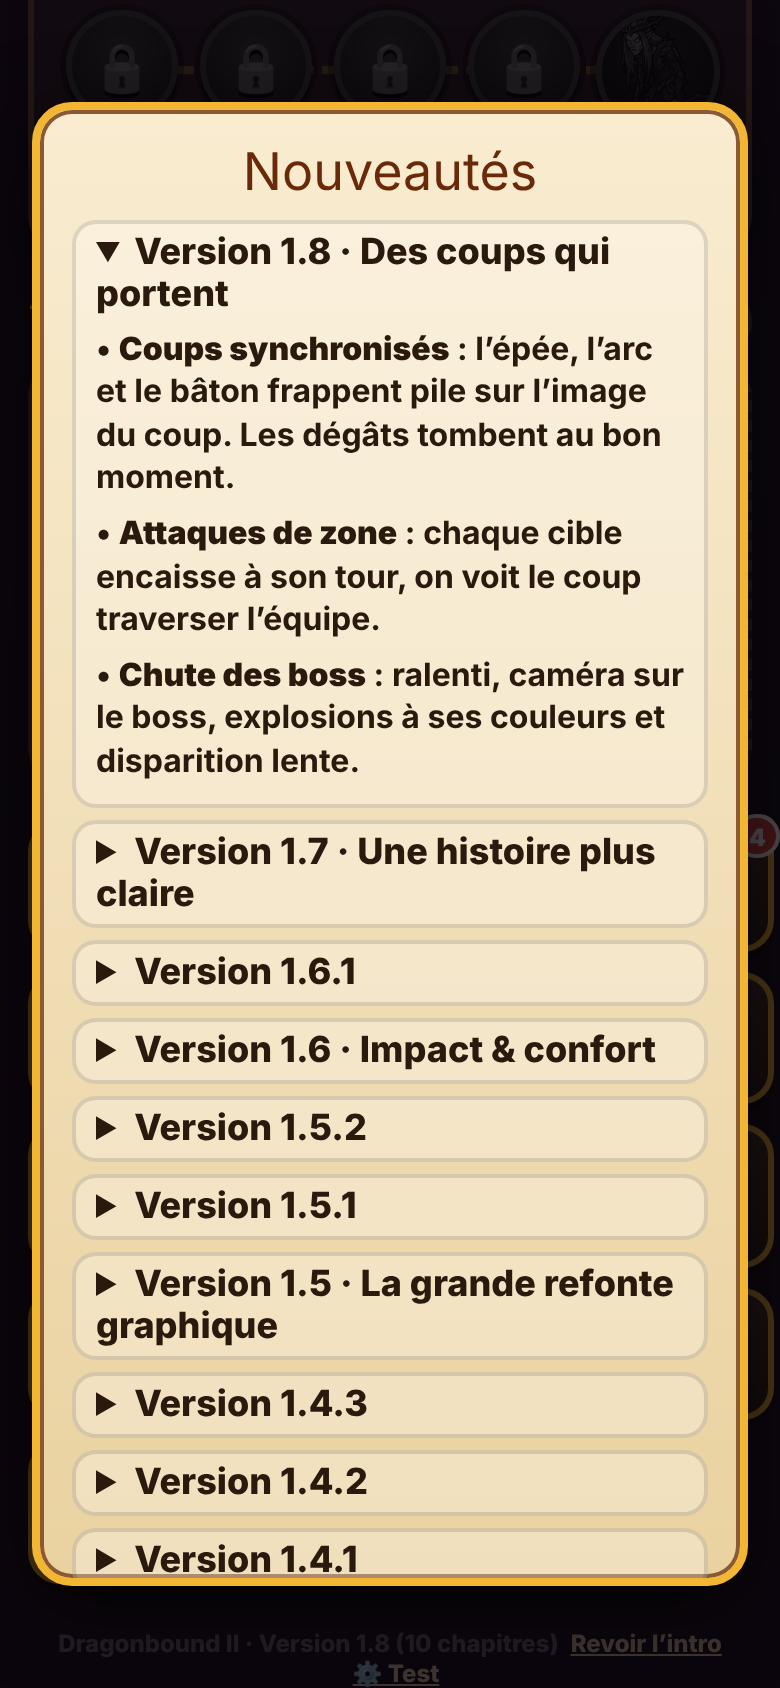
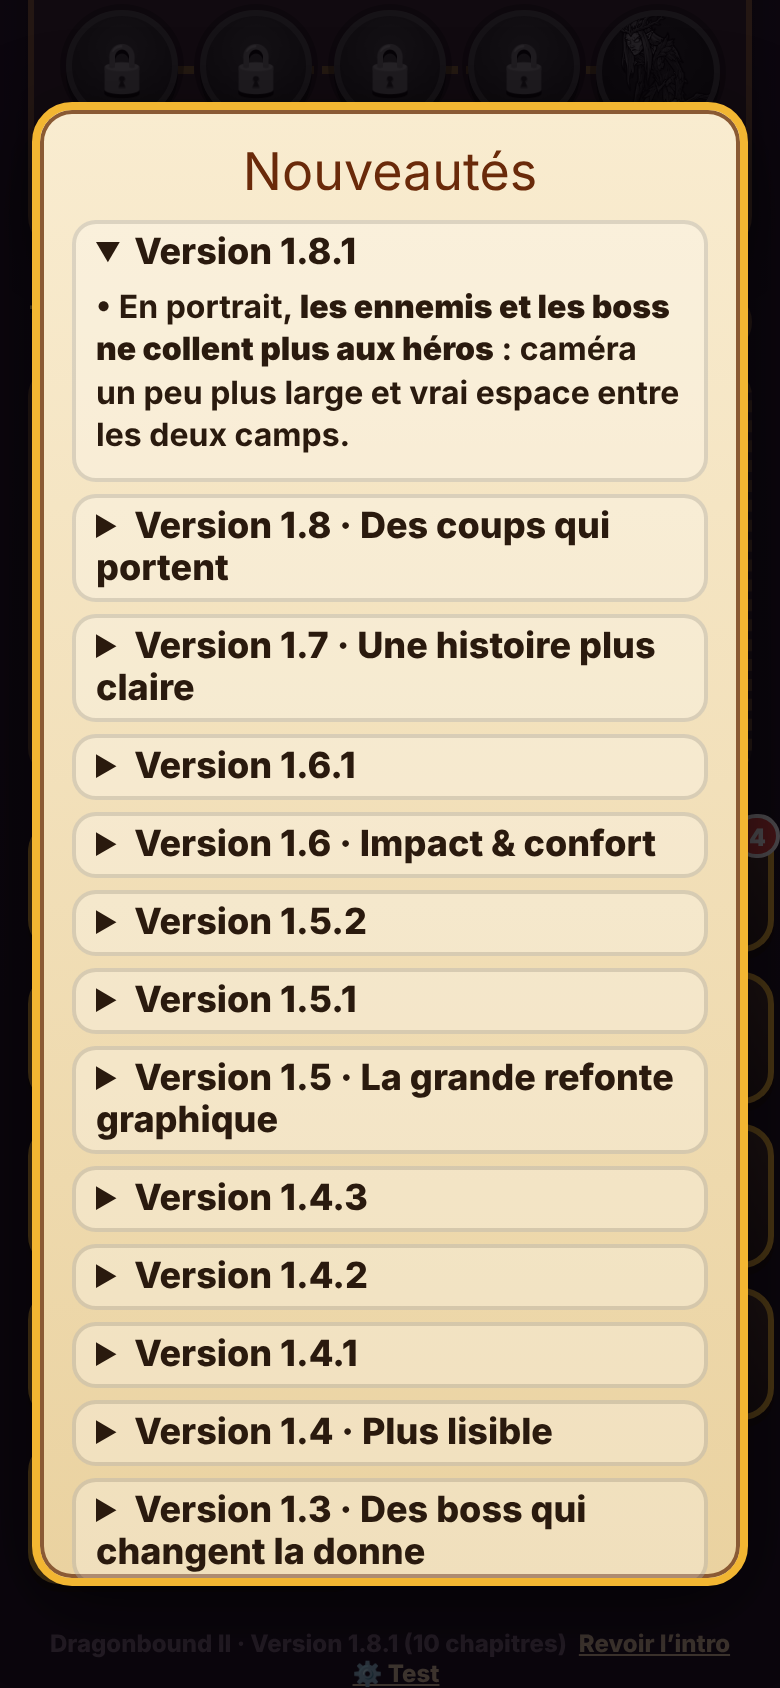
Dragonbound II 1.8.1 : en portrait, ennemis et boss ne collent plus aux héros (caméra plus large, espace entre les camps)
Claude-Session: https://claude.ai/code/session_01G2LeSq3BZwgWtQEzaTDVtd

Changed region(s): [[0.0923, 0.1232, 0.9231, 0.955], [0.7385, 0.955, 0.8615, 0.9858]]

diff --git a/prototype/dragonbound2/index.html b/prototype/dragonbound2/index.html
@@ -337,7 +337,7 @@ table.cmp .up { color: #2f7a3a; font-weight: 900; } table.cmp .down { color: #b5
 <script>
 (() => {
 'use strict';
-const VERSION = 'Dragonbound II · Version 1.8 (10 chapitres)';
+const VERSION = 'Dragonbound II · Version 1.8.1 (10 chapitres)';
 const DEV = true; // 1.3: set to false for the commercial build (removes the test menu)
 const IP = '../dragonbound/img/', AP = '../dragonbound/audio/', FP = 'img/';
 const Q = new URLSearchParams(location.search), SIM = Q.has('sim');
@@ -913,7 +913,7 @@ const HSLOT = [[[.3, .6]], [[.32, .42], [.19, .88]], [[.37, .52], [.13, .2], [.2
 const FSLOT = [[[.7, .6]], [[.68, .42], [.83, .88]], [[.66, .55], [.85, .26], [.84, .93]], [[.62, .44], [.82, .22], [.66, .95], [.89, .66]], [[.6, .5], [.76, .2], [.62, .96], [.9, .4], [.88, .86]]];
 const BSLOT = [[.66, .66], [.9, .2], [.92, .95]];
 // 1.6: bigger characters; landscape stages are short and wide, so they get a stronger zoom and units are pulled toward the centre
-const ZOOM_P = .94, ZOOM_L = 1.2, XPULL_L = .84; let ZOOM = ZOOM_P, XPULL = 1, WIDE = false;
+const ZOOM_P = .88, ZOOM_L = 1.2, XPULL_L = .84; let ZOOM = ZOOM_P, XPULL = 1, WIDE = false;
 const persp = v => .8 + .3 * v;
 function mkHero(id, i, n) { const H = HEROES[id], st = heroStats(id);
   return { side: 'h', id, name: H.name, sprite: H.sprite, H, hpMax: st.hp, hp: st.hp, mpMax: st.mp, mp: st.mp, atk: st.atk, mag: st.mag, def: st.def, crit: st.crit,
@@ -931,7 +931,9 @@ function soloScale(f) { const k = B && SOLO[B.party.length]; if (!k) return f; f
 const SOLO = { 1: { h: .66, a: .6, bh: .55, ba: .58 }, 2: { h: .84, a: .9, bh: .8, ba: .9 } };
 const alive = u => u.hp > 0;
 const livingH = () => B.party.filter(alive), livingF = () => B.foes.filter(alive);
-function px(u) { const v = u.slot ? u.slot[1] : .5; return { x: (.5 + ((u.slot ? u.slot[0] : .2) - .5) * XPULL) * VW + u.ox, y: GY + (VH - GY) * (.3 + .64 * v) + u.oy, h: VH * u.hsz * persp(v) * ZOOM, v }; }
+// 1.8.1: in portrait, heroes and foes were touching: open a gap in the middle (edges unchanged)
+const gapX = (u, x) => WIDE ? x : u.side === 'h' ? x - .045 * Math.max(0, Math.min(1, (x - .13) / .24)) : u.side === 'f' ? x + .055 * Math.max(0, Math.min(1, 1 - (x - .6) / .3)) : x;
+function px(u) { const v = u.slot ? u.slot[1] : .5; return { x: (.5 + (gapX(u, u.slot ? u.slot[0] : .2) - .5) * XPULL) * VW + u.ox, y: GY + (VH - GY) * (.3 + .64 * v) + u.oy, h: VH * u.hsz * persp(v) * ZOOM, v }; }
 function setPose(u, p, ms) { u.pose = p; u.poseDur = ms; u.poseUntil = now() + (FAST ? 0 : ms); }
 // 1.8: animated heroes hit on their swing frame (frame 3 of 4): the pose lasts 2×lead, so after `lead` ms the swing/release frame is on screen
 const isAnim = u => !!ANIM[u.sprite];
@@ -2129,6 +2131,7 @@ renderHome();
 function afterIntro() { if (!S.seen.in) { S.seen.ver = VER; return story('in', helpSheet); } if (S.seen.ver !== VER) { S.seen.ver = VER; save(); return newsSheet(() => { if (loginReady()) loginSheet(); }); } if (loginReady()) loginSheet(); }
 // 1.1: every version's notes live here; the newest is shown once per version, the whole list from the Nouveautés button
 const CHANGELOG = [
+  { v: '1.8.1', t: 'Version 1.8.1', d: `<p>• En portrait, <b>les ennemis et les boss ne collent plus aux héros</b> : caméra un peu plus large et vrai espace entre les deux camps.</p>` },
   { v: '1.8', t: 'Version 1.8 · Des coups qui portent', d: `<p>• <b>Coups synchronisés</b> : l’épée, l’arc et le bâton frappent pile sur l’image du coup. Les dégâts tombent au bon moment.</p><p>• <b>Attaques de zone</b> : chaque cible encaisse à son tour, on voit le coup traverser l’équipe.</p><p>• <b>Chute des boss</b> : ralenti, caméra sur le boss, explosions à ses couleurs et disparition lente.</p>` },
   { v: '1.7', t: 'Version 1.7 · Une histoire plus claire', d: `<p>• <b>Nouvelle histoire</b> : tous les dialogues des 10 chapitres ont été réécrits. Plus courts, plus clairs, avec un vrai mystère autour d’Ardaël, des sceaux et de Vorthax.</p><p>• <b>Écran d’objet simplifié</b> : un verdict clair (meilleur ou moins bien), seulement les stats qui changent, et le bon bouton en premier. Le détail complet reste accessible.</p><p>• Le bouton <b>Histoire</b> permet de relire les scènes du chapitre en cours.</p>` },
   { v: '1.6.1', t: 'Version 1.6.1', d: `<p>• Les personnages restent <b>immobiles</b> quand ils n’agissent pas (plus d’animation d’attente ni de respiration).</p>` },

diff --git a/prototype/dragonbound-tests/db211.js b/prototype/dragonbound-tests/db211.js
@@ -8,7 +8,7 @@ const H = ['aldric', 'selena', 'orin', 'lyra', 'nyx'];
 const inv = [{ id: 1, slot: 'w', r: 1, t: 3, st: { atk: 6 }, hero: 'aldric', img: 'wSword', name: 'Épée A' }, { id: 2, slot: 'w', r: 3, t: 8, st: { atk: 20 }, hero: 'aldric', img: 'wSword', name: 'Épée B', pw: 'vampire' },
   { id: 3, slot: 'a', r: 2, t: 5, st: { hp: 40, def: 4 }, img: 'a0armure', name: 'Armure C' }, { id: 4, slot: 'w', r: 2, t: 5, st: { atk: 12 }, hero: 'nyx', img: 'wDaggers', name: 'Dagues N' }];
 const base = o => Object.assign({ v: 2, gold: 100, items: { pot: 3, eth: 1, fea: 1, eli: 0 }, h: Object.fromEntries(H.map(k => [k, { lvl: 6, xp: 0, w: 0, a: 0, eq: k === 'aldric' ? { w: 1 } : {} }])),
-  team: ['aldric', 'selena'], own: { aldric: 1, selena: 1 }, stars: Array(50).fill(0), seen: { in: 1, vid: 1, vid2: 1, n09: 1, n10: 1, ver: '1.8' }, mute: true, ch: 1, inv, nid: 10, spd: 3 }, o);
+  team: ['aldric', 'selena'], own: { aldric: 1, selena: 1 }, stars: Array(50).fill(0), seen: { in: 1, vid: 1, vid2: 1, n09: 1, n10: 1, ver: '1.8.1' }, mute: true, ch: 1, inv, nid: 10, spd: 3 }, o);
 srv.listen(0, async () => {
   const url = `http://127.0.0.1:${srv.address().port}/dragonbound2/index.html`, b = await chromium.launch(), errs = [];
   for (const [w, h, tag] of [[390, 844, 'portrait'], [1180, 820, 'paysage']]) {
@@ -50,7 +50,7 @@ srv.listen(0, async () => {
     // news once per version: old 1.0.2 save (n10, no ver)
     await load(base({ seen: { in: 1, vid: 1, vid2: 1, n09: 1, n10: 1 } })); const h3 = await pg.textContent('#modal:not([hidden]) h3').catch(() => ''); await closeAll();
     await pg.reload(); await pg.click('#title'); await pg.waitForTimeout(500); const again = await pg.$('#modal:not([hidden]) h3') ? await pg.textContent('#modal:not([hidden]) h3') : '';
-    s = await S(); ok(`[${tag}] Nouveautés 1.1 montrées une seule fois (sauvegarde 1.0.2)`, h3.startsWith('Version 1.8') && !again.includes('Version 1.8') && s.seen.ver === '1.8' && s.inv.length === 4, `1er : ${h3} · 2e : ${again || 'rien'}`);
+    s = await S(); ok(`[${tag}] Nouveautés 1.1 montrées une seule fois (sauvegarde 1.0.2)`, h3.startsWith('Version 1.8.1') && !again.includes('Version 1.8.1') && s.seen.ver === '1.8.1' && s.inv.length === 4, `1er : ${h3} · 2e : ${again || 'rien'}`);
     await ctx.close();
   }
   ok('Aucune erreur JavaScript', !errs.length, errs.join(' | '));

diff --git a/prototype/dragonbound-tests/db151.js b/prototype/dragonbound-tests/db151.js
@@ -5,7 +5,7 @@ const srv = http.createServer((q, r) => { const p = path.join(ROOT, decodeURICom
 const H = ['aldric', 'selena', 'orin', 'lyra', 'nyx'], res = [], ok = (n, c, x = '') => res.push(`${c ? '✅' : '❌'} ${n}${x ? ' — ' + x : ''}`);
 const it = (id, slot, r, st, hero) => ({ id, slot, r, t: 5, st, hero, name: 'x' });
 const inv = [it(1, 'w', 0, { atk: 5 }, 'aldric'), it(2, 'w', 4, { atk: 50 }, 'aldric'), it(3, 'a', 0, { hp: 10, def: 1 }), it(4, 'a', 1, { hp: 15, def: 1 }), it(5, 'a', 3, { hp: 80, def: 8 }), it(6, 'j', 2, { crit: .01 }), it(7, 'a', 4, { hp: 200, def: 20 })];
-const save = { v: 2, gold: 100, gem: 0, items: { pot: 3, eth: 1, fea: 1, eli: 0 }, h: Object.fromEntries(H.map(k => [k, { lvl: 10, xp: 0, w: 0, a: 0, eq: k === 'aldric' ? { w: 2, a: 7 } : {} }])), team: ['aldric'], own: { aldric: 1 }, stars: Array(50).fill(0), seen: { in: 1, vid: 1, vid2: 1, n09: 1, n10: 1, ver: '1.8' }, mute: true, ch: 0, inv, nid: 20, spd: 1, m12: 1, tc: { kills: 1200, thermal: 20, embrase: 20, brise: 20 } };
+const save = { v: 2, gold: 100, gem: 0, items: { pot: 3, eth: 1, fea: 1, eli: 0 }, h: Object.fromEntries(H.map(k => [k, { lvl: 10, xp: 0, w: 0, a: 0, eq: k === 'aldric' ? { w: 2, a: 7 } : {} }])), team: ['aldric'], own: { aldric: 1 }, stars: Array(50).fill(0), seen: { in: 1, vid: 1, vid2: 1, n09: 1, n10: 1, ver: '1.8.1' }, mute: true, ch: 0, inv, nid: 20, spd: 1, m12: 1, tc: { kills: 1200, thermal: 20, embrase: 20, brise: 20 } };
 srv.listen(0, async () => { const b = await chromium.launch(), pg = await b.newPage(), errs = []; pg.on('pageerror', e => errs.push(e.message));
   const url = `http://127.0.0.1:${srv.address().port}/dragonbound2/index.html`, S = () => pg.evaluate(k => JSON.parse(localStorage.getItem(k)), KEY);
   await pg.goto(url); await pg.evaluate(([k, s]) => localStorage.setItem(k, JSON.stringify(s)), [KEY, save]); await pg.goto(url); await pg.click('#title'); await pg.waitForTimeout(500);

diff --git a/prototype/dragonbound-tests/db212.js b/prototype/dragonbound-tests/db212.js
@@ -9,7 +9,7 @@ const H = ['aldric', 'selena', 'orin', 'lyra', 'nyx'];
 const inv = [{ id: 1, slot: 'w', r: 2, t: 12, st: { atk: 20 }, hero: 'aldric', img: 'wAxe', name: 'Hache du bourreau' }, { id: 2, slot: 'a', r: 3, t: 12, st: { hp: 90, def: 9 }, img: 'a2armure', name: 'Armure de braise' },
   { id: 3, slot: 'j', r: 2, t: 33, st: { crit: .05 }, img: 'a4amulette', name: 'Pendentif de givre' }, { id: 4, slot: 'w', r: 4, t: 48, st: { mag: 60, crit: .08 }, hero: 'orin', img: 'wLegM', name: 'Bâton du Néant' }, { id: 5, slot: 'a', r: 0, t: 3, st: { hp: 20, def: 1 }, img: 'a0armure', name: 'Armure d’os' }];
 const base = o => Object.assign({ v: 2, gold: 1000, gem: 0, items: { pot: 3, eth: 1, fea: 1, eli: 0 }, h: Object.fromEntries(H.map(k => [k, { lvl: 12, xp: 0, w: 2, a: 2, eq: k === 'aldric' ? { w: 1, a: 2 } : {} }])),
-  team: ['aldric', 'selena', 'orin'], own: { aldric: 1, selena: 1, orin: 1 }, stars: [3, 3, 3, 3, 3, 2].concat(Array(44).fill(0)), seen: { in: 1, vid: 1, vid2: 1, n09: 1, n10: 1, ver: '1.8', in2: 1 }, mute: true, ch: 1, inv, nid: 10, spd: 3 }, o);
+  team: ['aldric', 'selena', 'orin'], own: { aldric: 1, selena: 1, orin: 1 }, stars: [3, 3, 3, 3, 3, 2].concat(Array(44).fill(0)), seen: { in: 1, vid: 1, vid2: 1, n09: 1, n10: 1, ver: '1.8.1', in2: 1 }, mute: true, ch: 1, inv, nid: 10, spd: 3 }, o);
 srv.listen(0, async () => {
   const url = `http://127.0.0.1:${srv.address().port}/dragonbound2/index.html`, b = await chromium.launch(), errs = [];
   for (const [w, h, tag] of [[390, 844, 'portrait'], [1180, 820, 'paysage']]) {

diff --git a/prototype/dragonbound-tests/db2check.js b/prototype/dragonbound-tests/db2check.js
@@ -6,7 +6,7 @@ const MIME = { '.html': 'text/html', '.webp': 'image/webp', '.jpg': 'image/jpeg'
 const srv = http.createServer((q, r) => { const p = path.join(ROOT, decodeURIComponent(q.url.split('?')[0])); fs.readFile(p, (e, d) => { if (e) { r.writeHead(404); return r.end(); } r.writeHead(200, { 'content-type': MIME[path.extname(p)] || 'application/octet-stream' }); r.end(d); }); });
 const res = [], ok = (name, cond, extra = '') => res.push(`${cond ? '✅' : '❌'} ${name}${extra ? ' — ' + extra : ''}`);
 const base = over => Object.assign({ v: 2, gold: 100, items: { pot: 3, eth: 1, fea: 1, eli: 0 }, h: Object.fromEntries(['aldric', 'selena', 'orin', 'lyra', 'nyx'].map(k => [k, { lvl: 3, xp: 0, w: 0, a: 0 }])),
-  team: ['aldric'], own: { aldric: 1 }, stars: Array(30).fill(0), seen: { in: 1, vid: 1, vid2: 1, n09: 1, n10: 1, ver: '1.8' }, mute: true, ch: 0, inv: [], nid: 1, spd: 3 }, over);
+  team: ['aldric'], own: { aldric: 1 }, stars: Array(30).fill(0), seen: { in: 1, vid: 1, vid2: 1, n09: 1, n10: 1, ver: '1.8.1' }, mute: true, ch: 0, inv: [], nid: 1, spd: 3 }, over);
 srv.listen(0, async () => {
   const url = `http://127.0.0.1:${srv.address().port}/dragonbound2/index.html`, b = await chromium.launch(), errs = [];
   const ctx = await b.newContext({ viewport: { width: 390, height: 844 }, deviceScaleFactor: 2, hasTouch: true });
